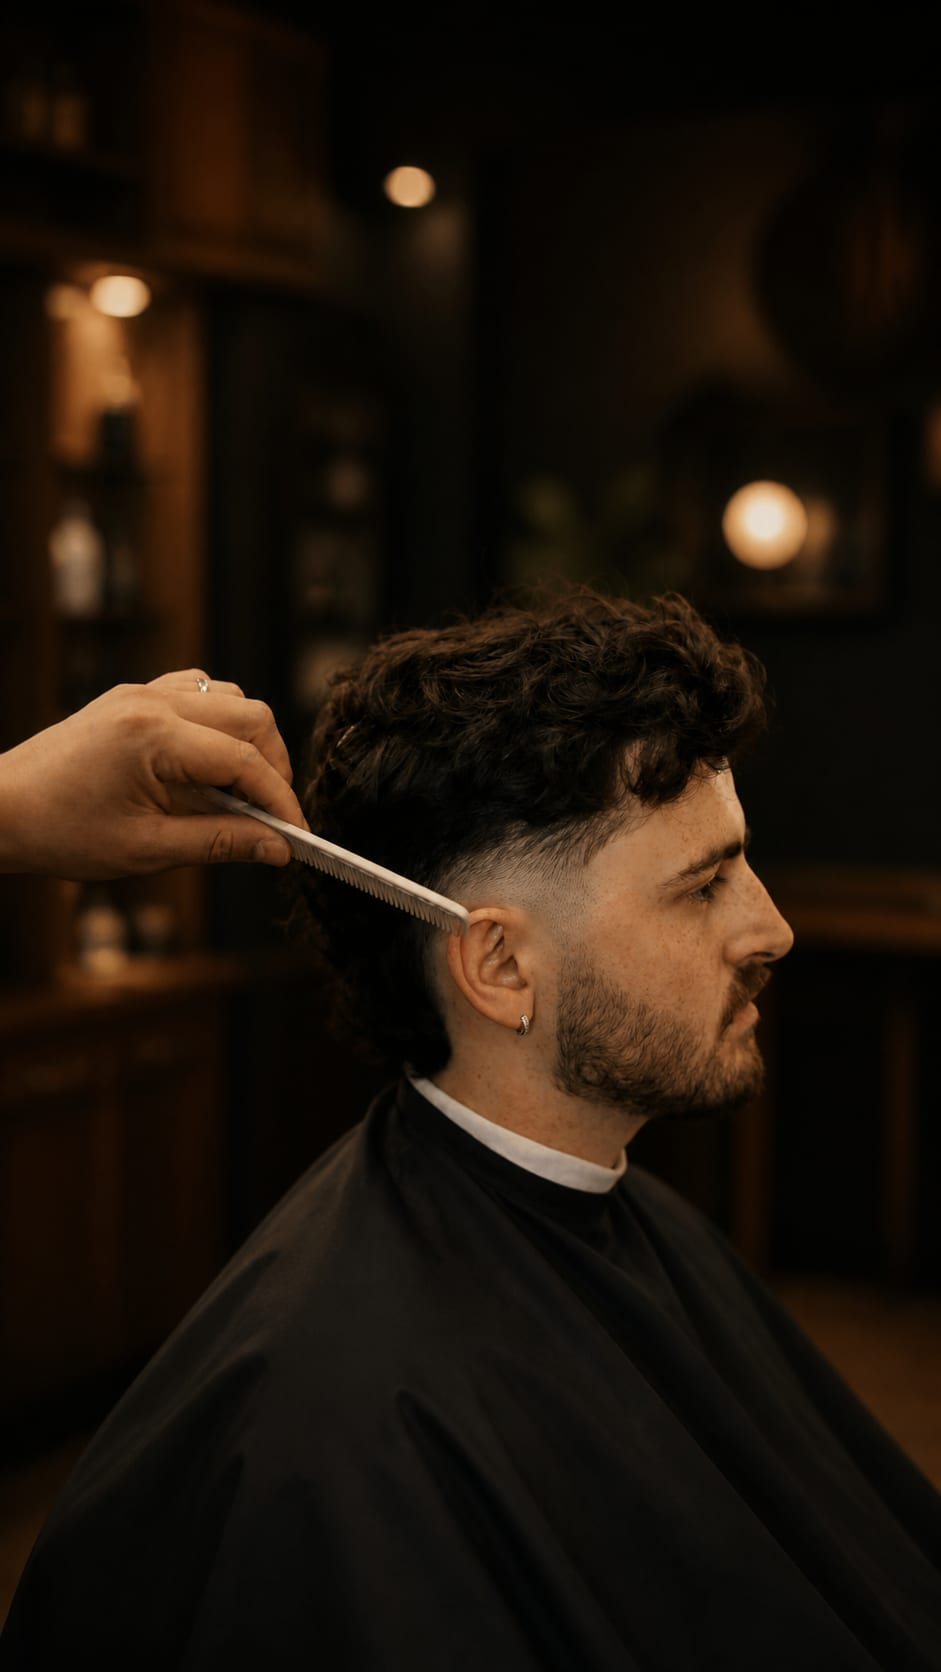
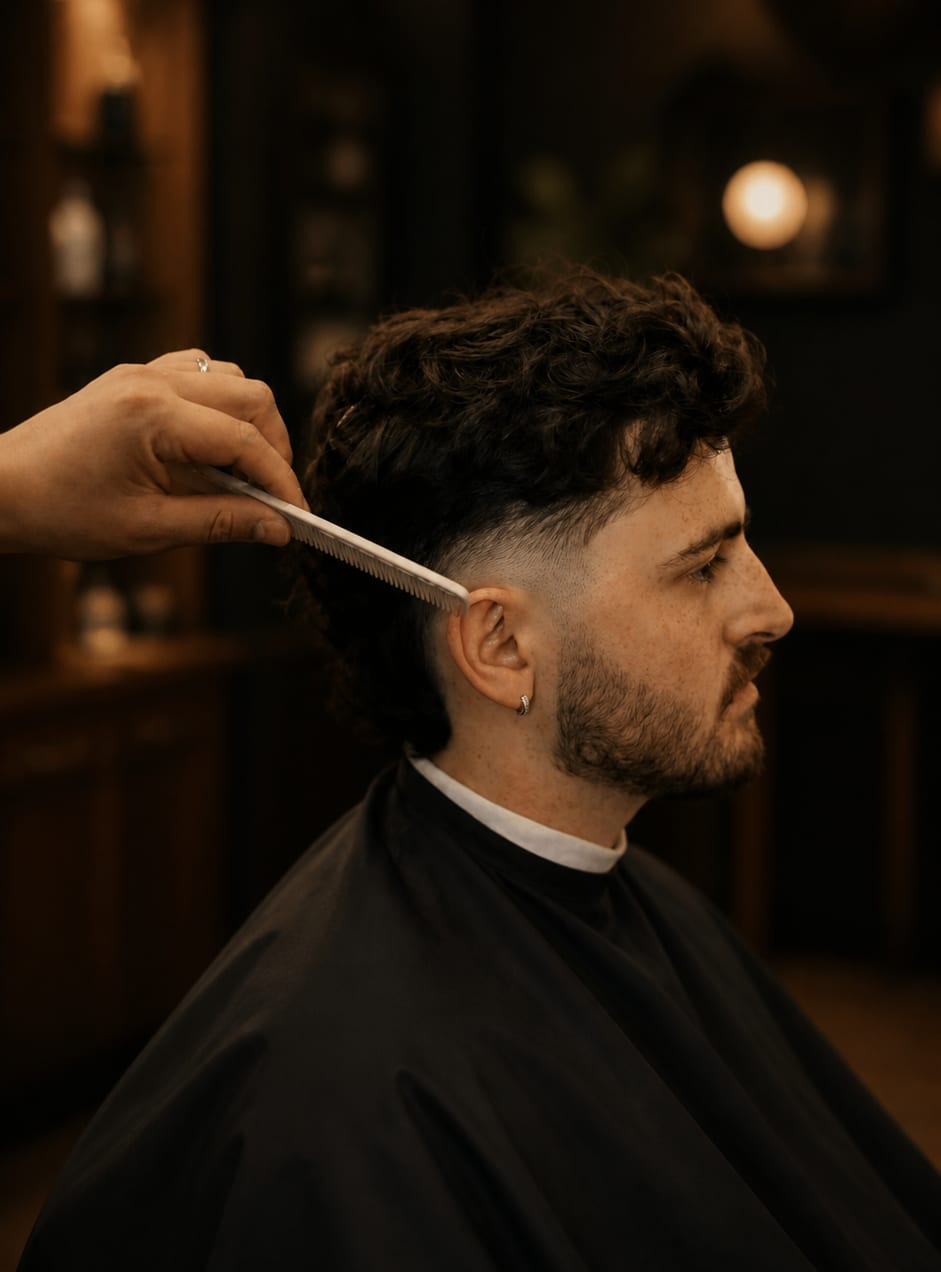
Sync trainer hero mobile image and barber mobile hero update
Adds a dedicated mobile hero background for the trainer demo and updates
the barber mobile hero crop. Already built, tested, and deployed
successfully before this commit.

diff --git a/src/pages/PTBookingSite.jsx b/src/pages/PTBookingSite.jsx
@@ -657,7 +657,11 @@ export default function PTBookingSite({ profile, barber, reviews: propReviews = 
   const portfolioHeading = profile?.portfolioHeading || 'Client transformations';
   const portfolioSubtext = profile?.portfolioSubtext || 'Drag the slider on each image to reveal real client results.';
   const portfolioItems   = portfolioForProfile(profile, profile?.portfolioItems || []);
-  const heroBackground   = heroForProfile(profile, profile?.heroBgImage, 'heroBgImage')
+  const heroBackground   = heroForProfile(
+    profile,
+    (isMobile && profile?.heroBgImageMobile) || profile?.heroBgImage,
+    isMobile ? 'heroBgImageMobile' : 'heroBgImage',
+  )
     || 'https://images.unsplash.com/photo-1517838277536-f5f99be501cd?q=80&w=1920';
   const coachHeroImage   = heroForProfile(profile, profile?.heroImage)
     || 'https://images.unsplash.com/photo-1594882645126-14020914d58d?q=80&w=800';
@@ -724,7 +728,7 @@ export default function PTBookingSite({ profile, barber, reviews: propReviews = 
         <div style={{
           position: 'absolute', inset: 0,
           backgroundImage: `url('${heroBackground}')`,
-          backgroundSize: 'cover', backgroundPosition: 'center', opacity: 0.25,
+          backgroundSize: 'cover', backgroundPosition: 'center', opacity: isMobile ? 0.5 : 0.25,
         }} />
         <div style={{ position: 'absolute', inset: 0, background: `linear-gradient(105deg, rgba(0,0,0,0.92) 0%, rgba(0,0,0,0.55) 60%, ${brandColor}22 100%)` }} />
         <div style={{ position: 'absolute', left: 0, top: '15%', bottom: '15%', width: 4, background: brandColor, borderRadius: '0 4px 4px 0' }} />

diff --git a/src/data/demoPortfolios.js b/src/data/demoPortfolios.js
@@ -91,6 +91,7 @@ const DEMO_HERO_IMAGES = {
   trainer: {
     heroImage: "/images/demo/trainer/hero.jpg",
     heroBgImage: "/images/demo/trainer/hero-bg.jpg",
+    heroBgImageMobile: "/images/demo/trainer/hero-bg-mobile.jpg",
   },
   decorator: {
     heroImage: "/images/demo/decorator/hero.jpg",
